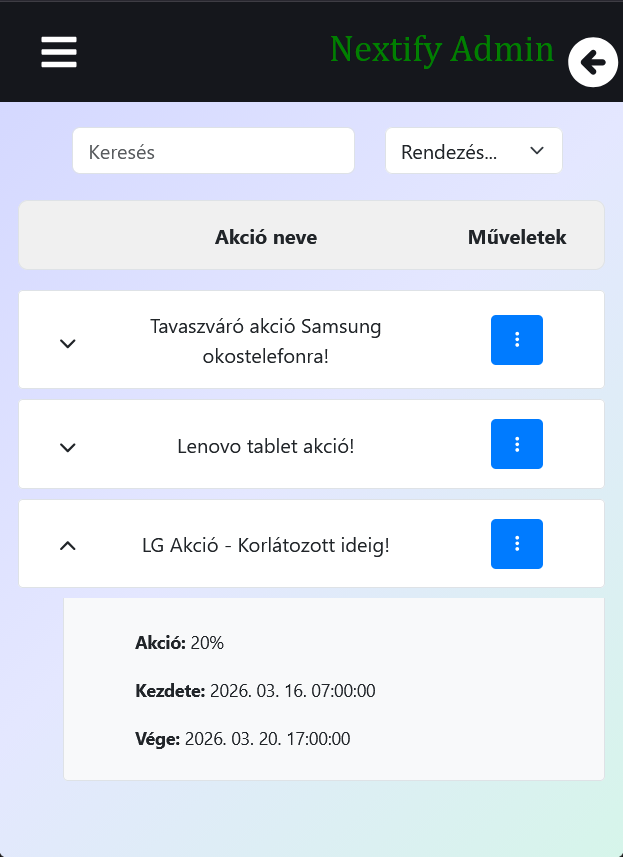
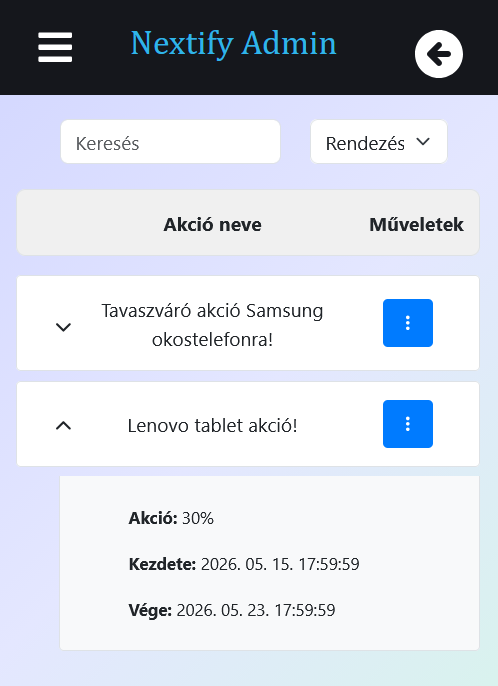
kek

diff --git a/frontend/src/components/Sidebar.js b/frontend/src/components/Sidebar.js
@@ -74,24 +74,31 @@ const Sidebar = ({ sidebar, setSidebar }) => {
         <>
             <IconContext.Provider value={{ color: "#fff" }}>
                 <Nav>
-                    <NavIcon to="#">
-                        <FaIcons.FaBars onClick={showSidebar} />
-                    </NavIcon>
-                    <h1
-                        style={{
-                            textAlign: "center",
-                            marginLeft: "200px",
-                            color: "green",
-                        }}
-                    >
-                        Nextify Admin
-                    </h1>
-                    <Link
-                        style={{ marginLeft: "auto", fontSize: "50px" }}
-                        to="/"
-                    >
-                        <HiArrowCircleLeft />
-                    </Link>
+                    <div className="row w-100">
+                        <div className="col-3">
+                            <NavIcon to="#">
+                                <FaIcons.FaBars onClick={showSidebar} />
+                            </NavIcon> 
+                        </div>
+                        <div className="col-6 align-items-center justify-content-center d-flex">
+                            <h1
+                                className="text-center"
+                                style={{
+                                    color: "#2fb5e9"
+                                }}
+                            >
+                                Nextify Admin
+                            </h1>
+                        </div>
+                        <div className="col-3 text-end">
+                            <Link
+                                style={{ fontSize: "50px" }}
+                                to="/"
+                            >
+                                <HiArrowCircleLeft />
+                            </Link>
+                        </div>
+                    </div>
                 </Nav>
                 <Overlay sidebar={sidebar} onClick={showSidebar} />
                 <SidebarNav sidebar={sidebar}>
